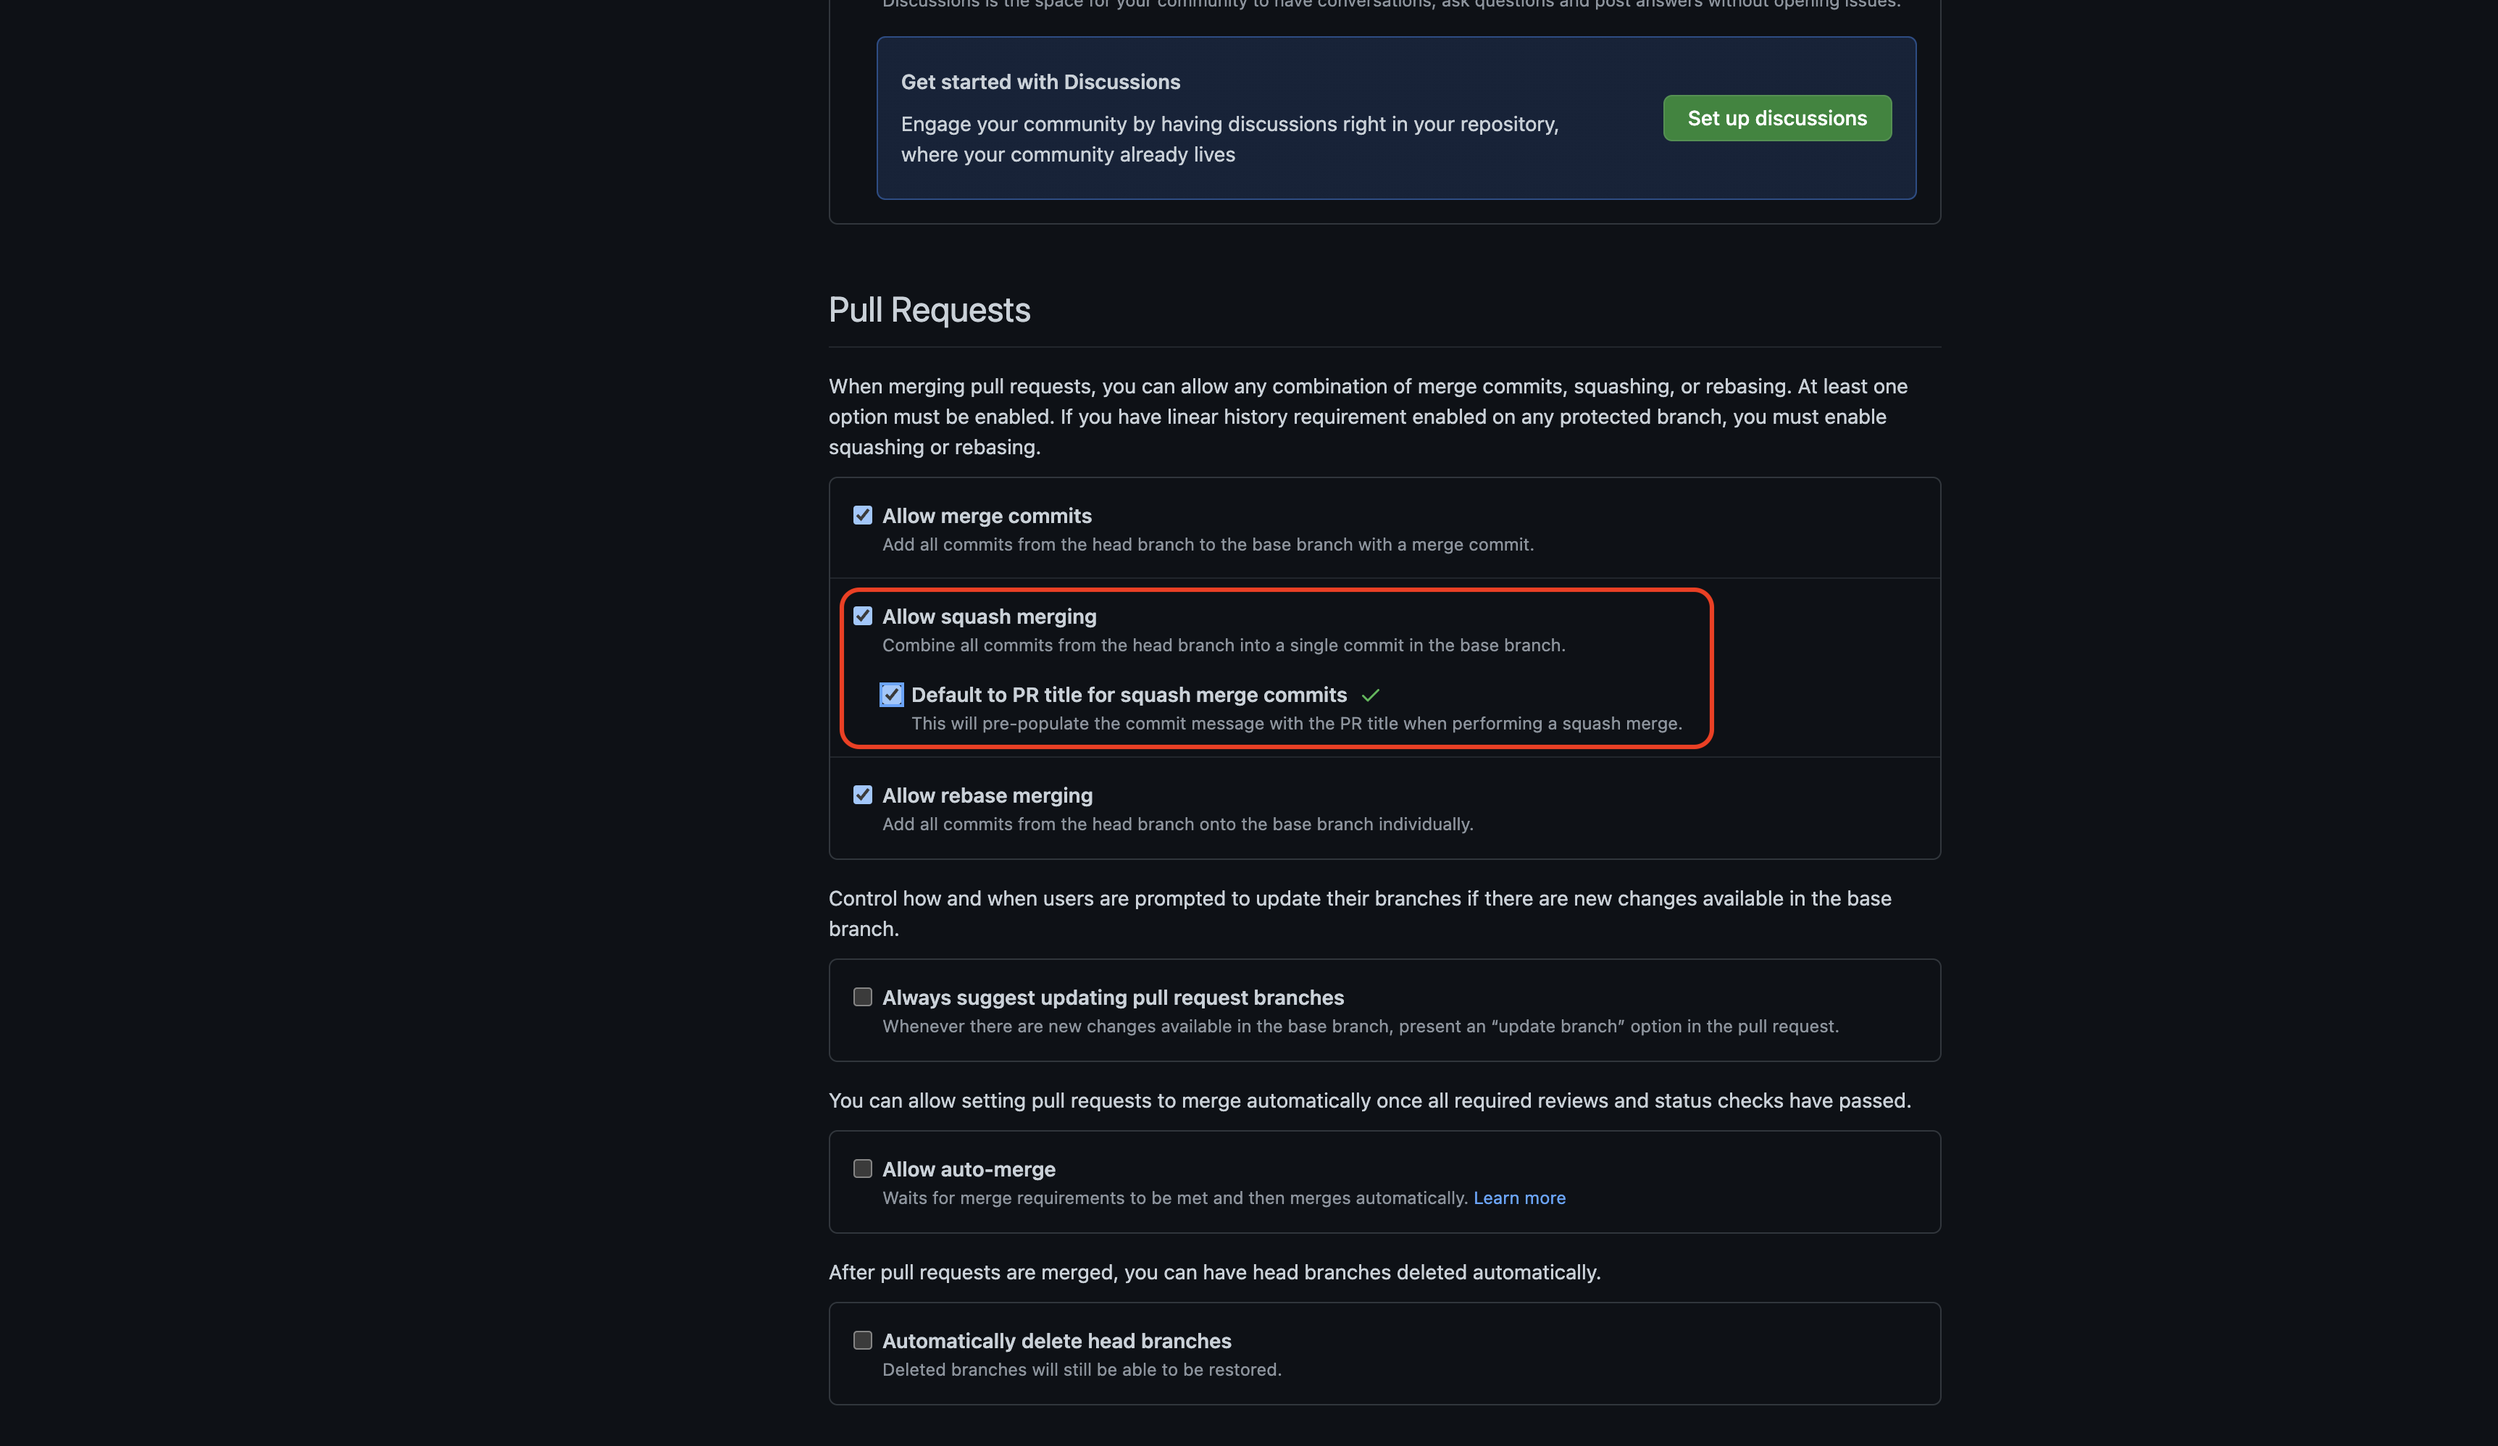
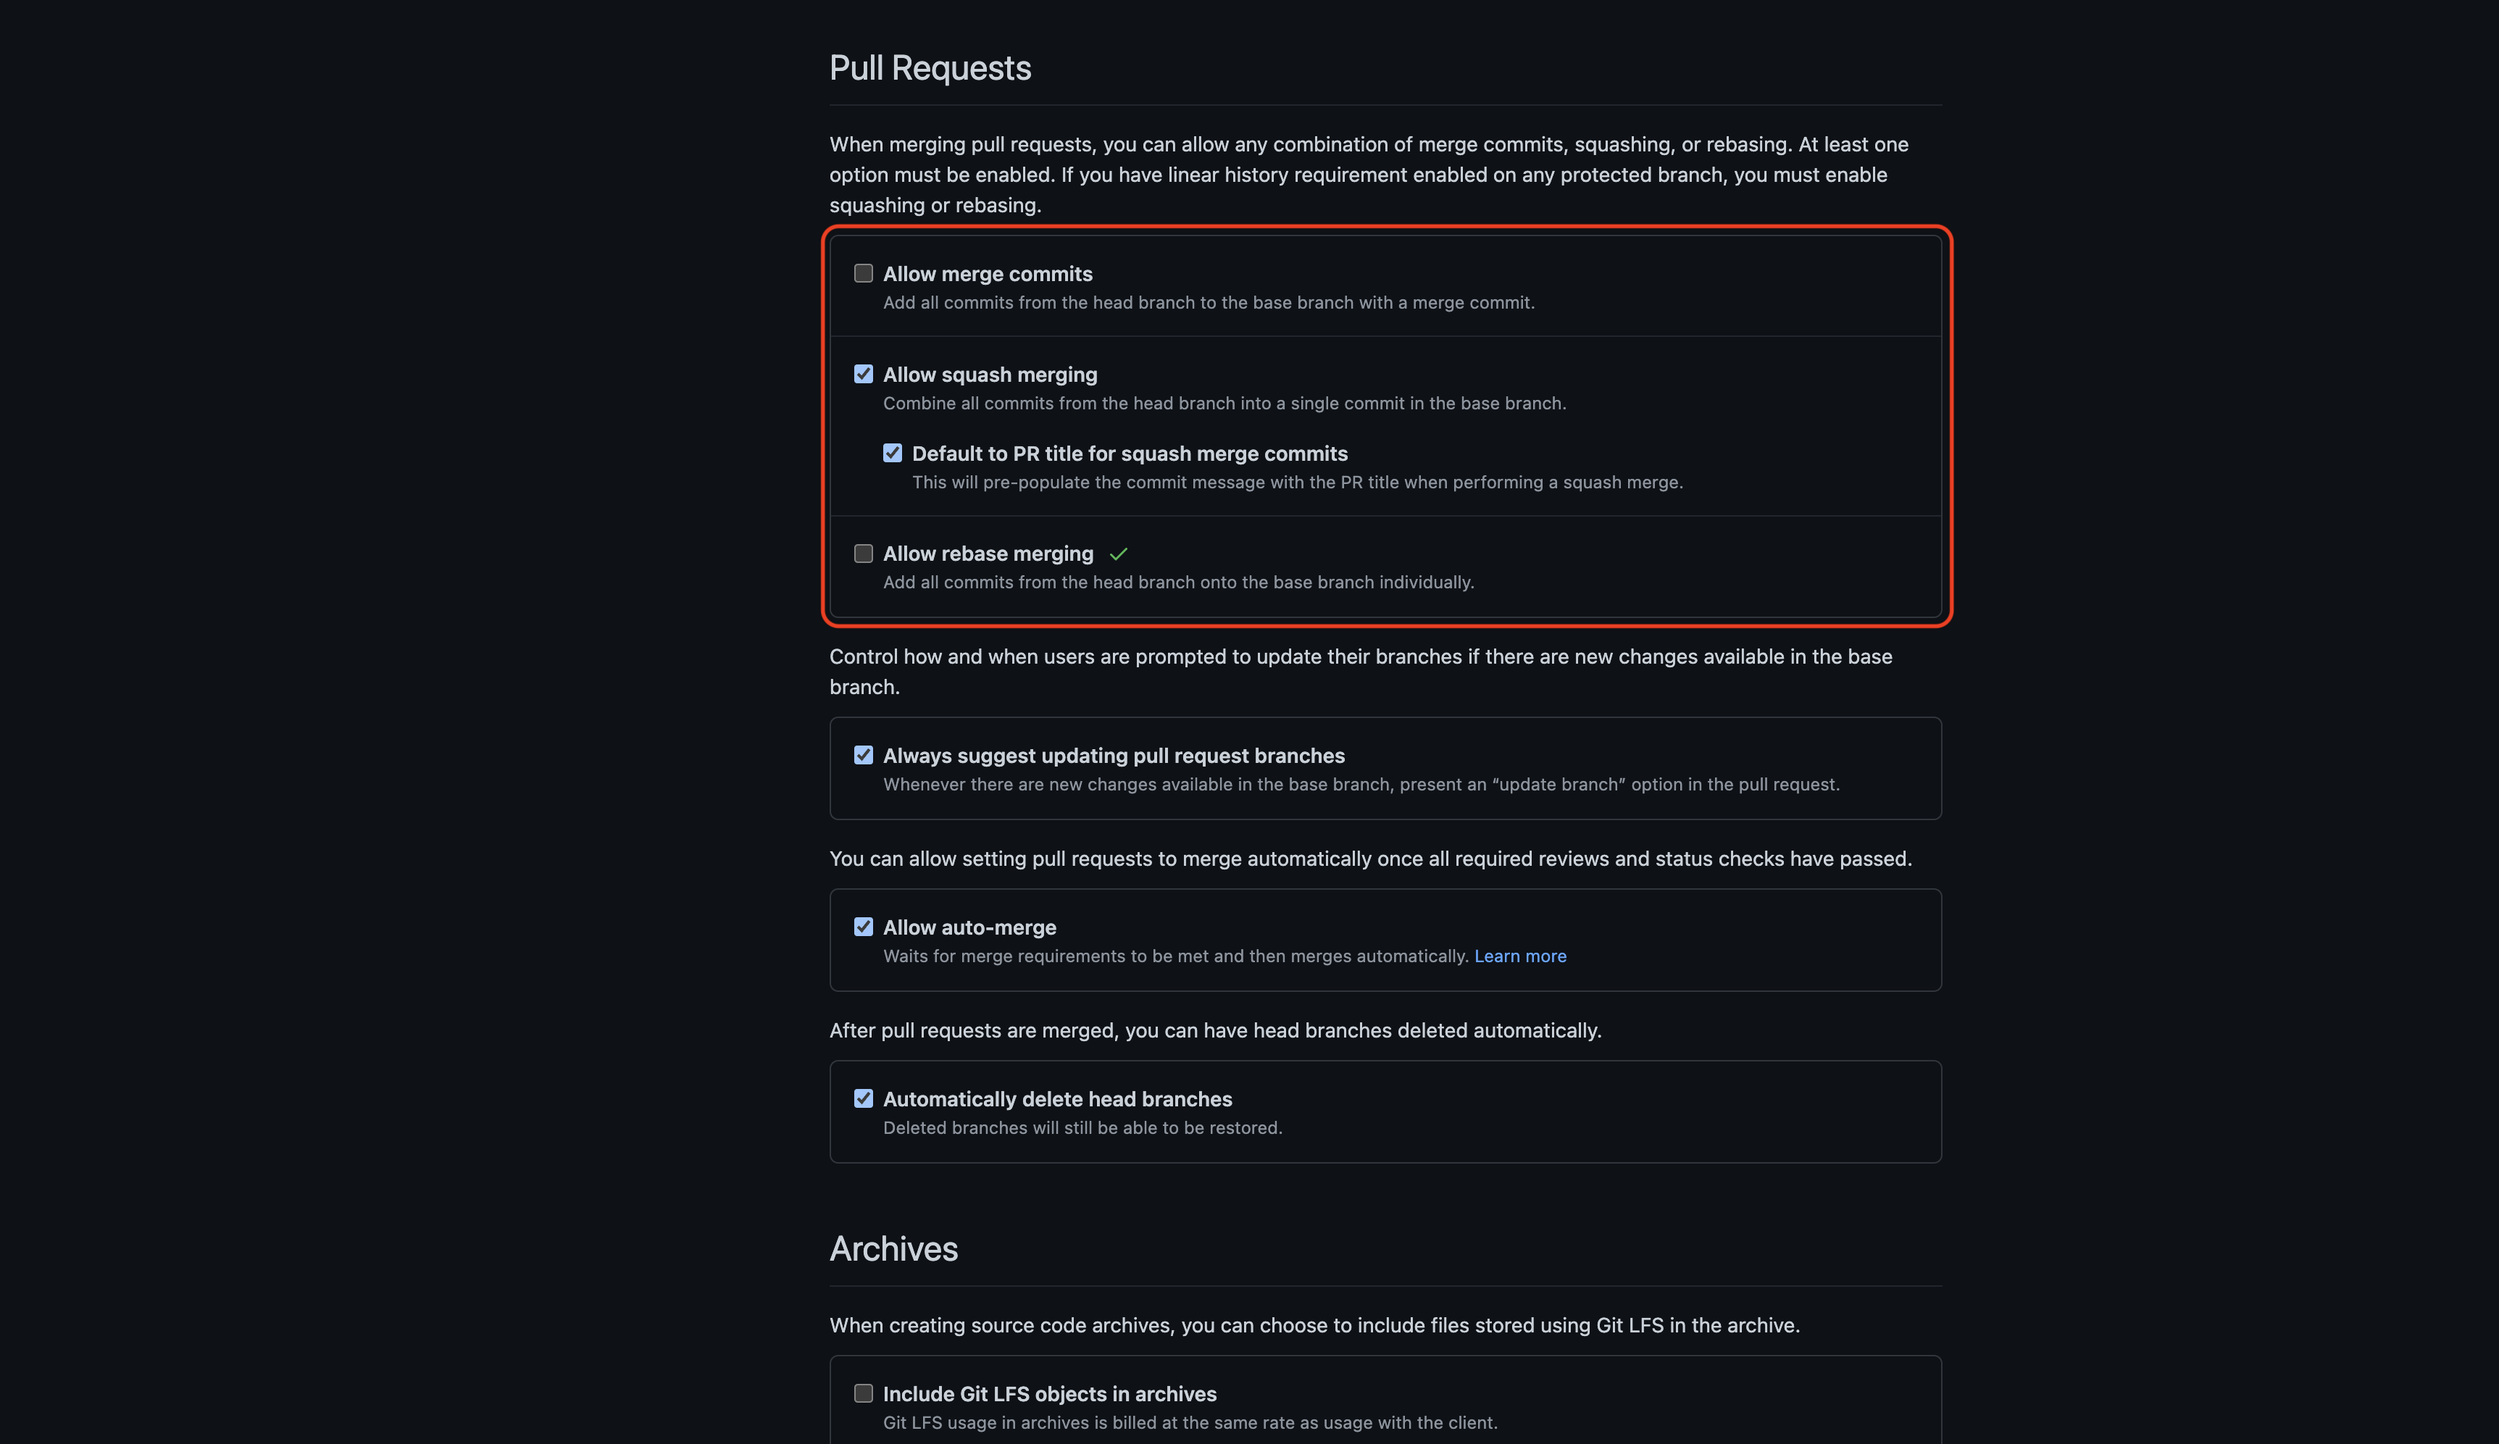
docs: fix squash merge settings

Changed region(s): [[0.3103, 0.0, 0.7758, 0.7155], [0.3414, 0.7466, 0.7758, 0.9955]]

diff --git a/docs/squash_merge/SQUASH_MERGE.md b/docs/squash_merge/SQUASH_MERGE.md
@@ -3,7 +3,9 @@
     ![alt text](squash_merge_1.png)
 
 2. Go to the `Pull Requests` section
-   1. Check on `Allow squash merging `
-   2. Check on `Default to PR title for squash merge commits `
+   1. Uncheck `Allow merge commits ` 
+   2. Check on `Allow squash merging `
+   3. Check on `Default to PR title for squash merge commits `
+   4. Uncheck `Allow rebase merging`
 
     ![alt text](squash_merge_2.png)
